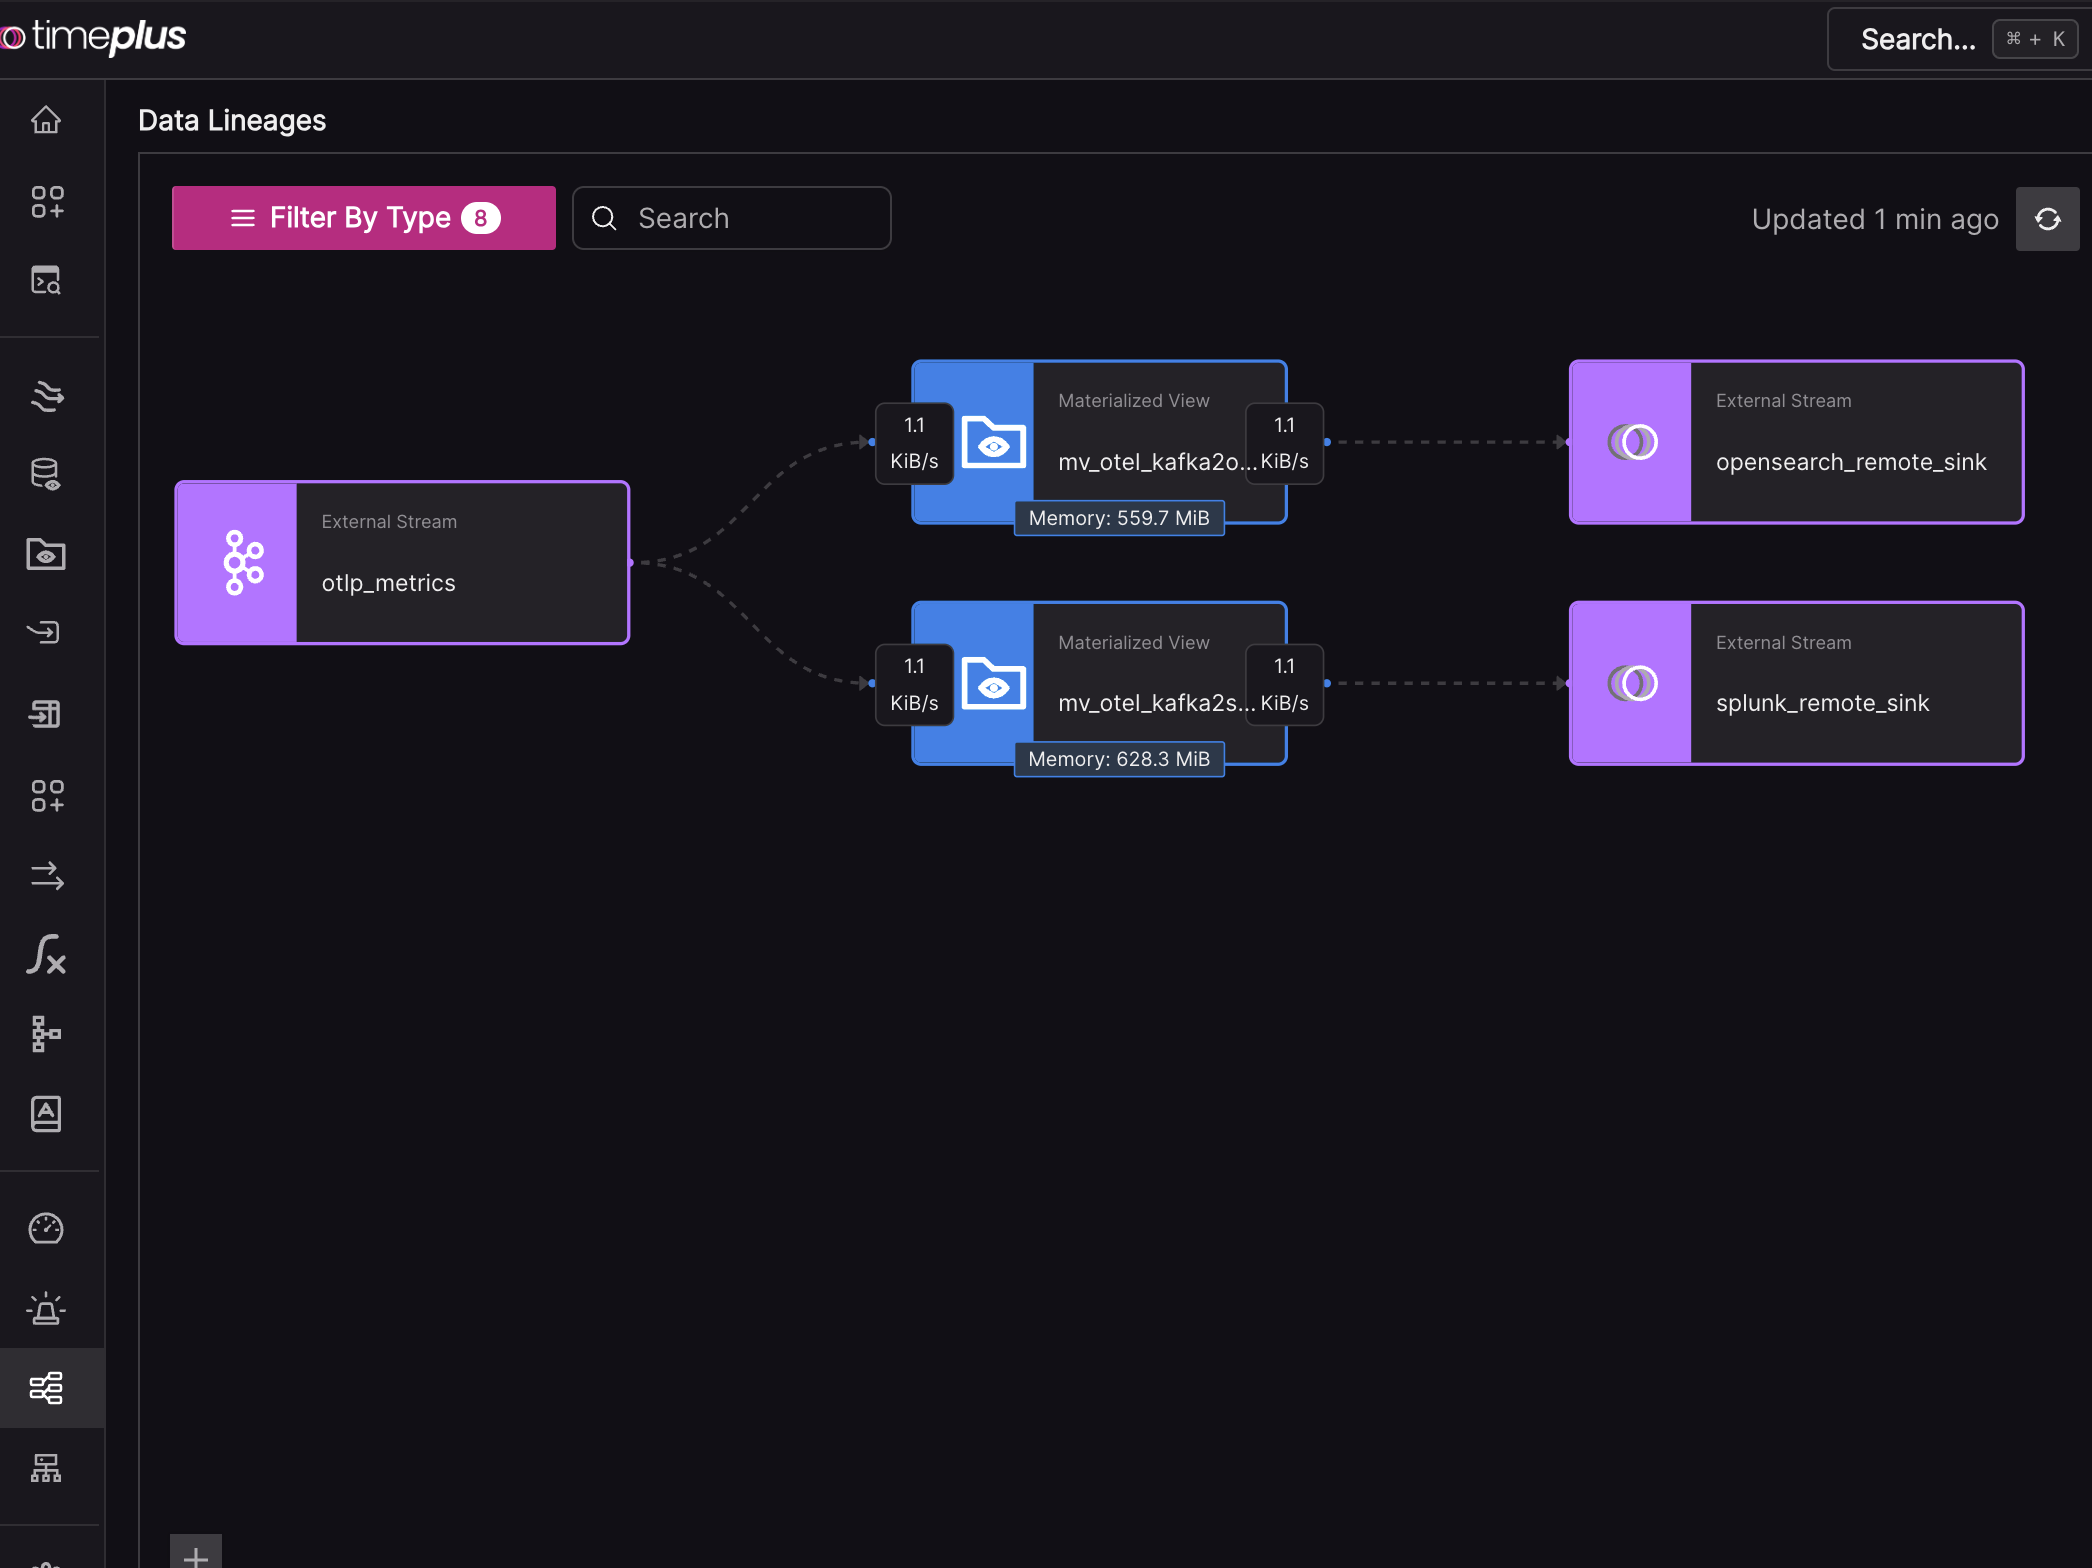
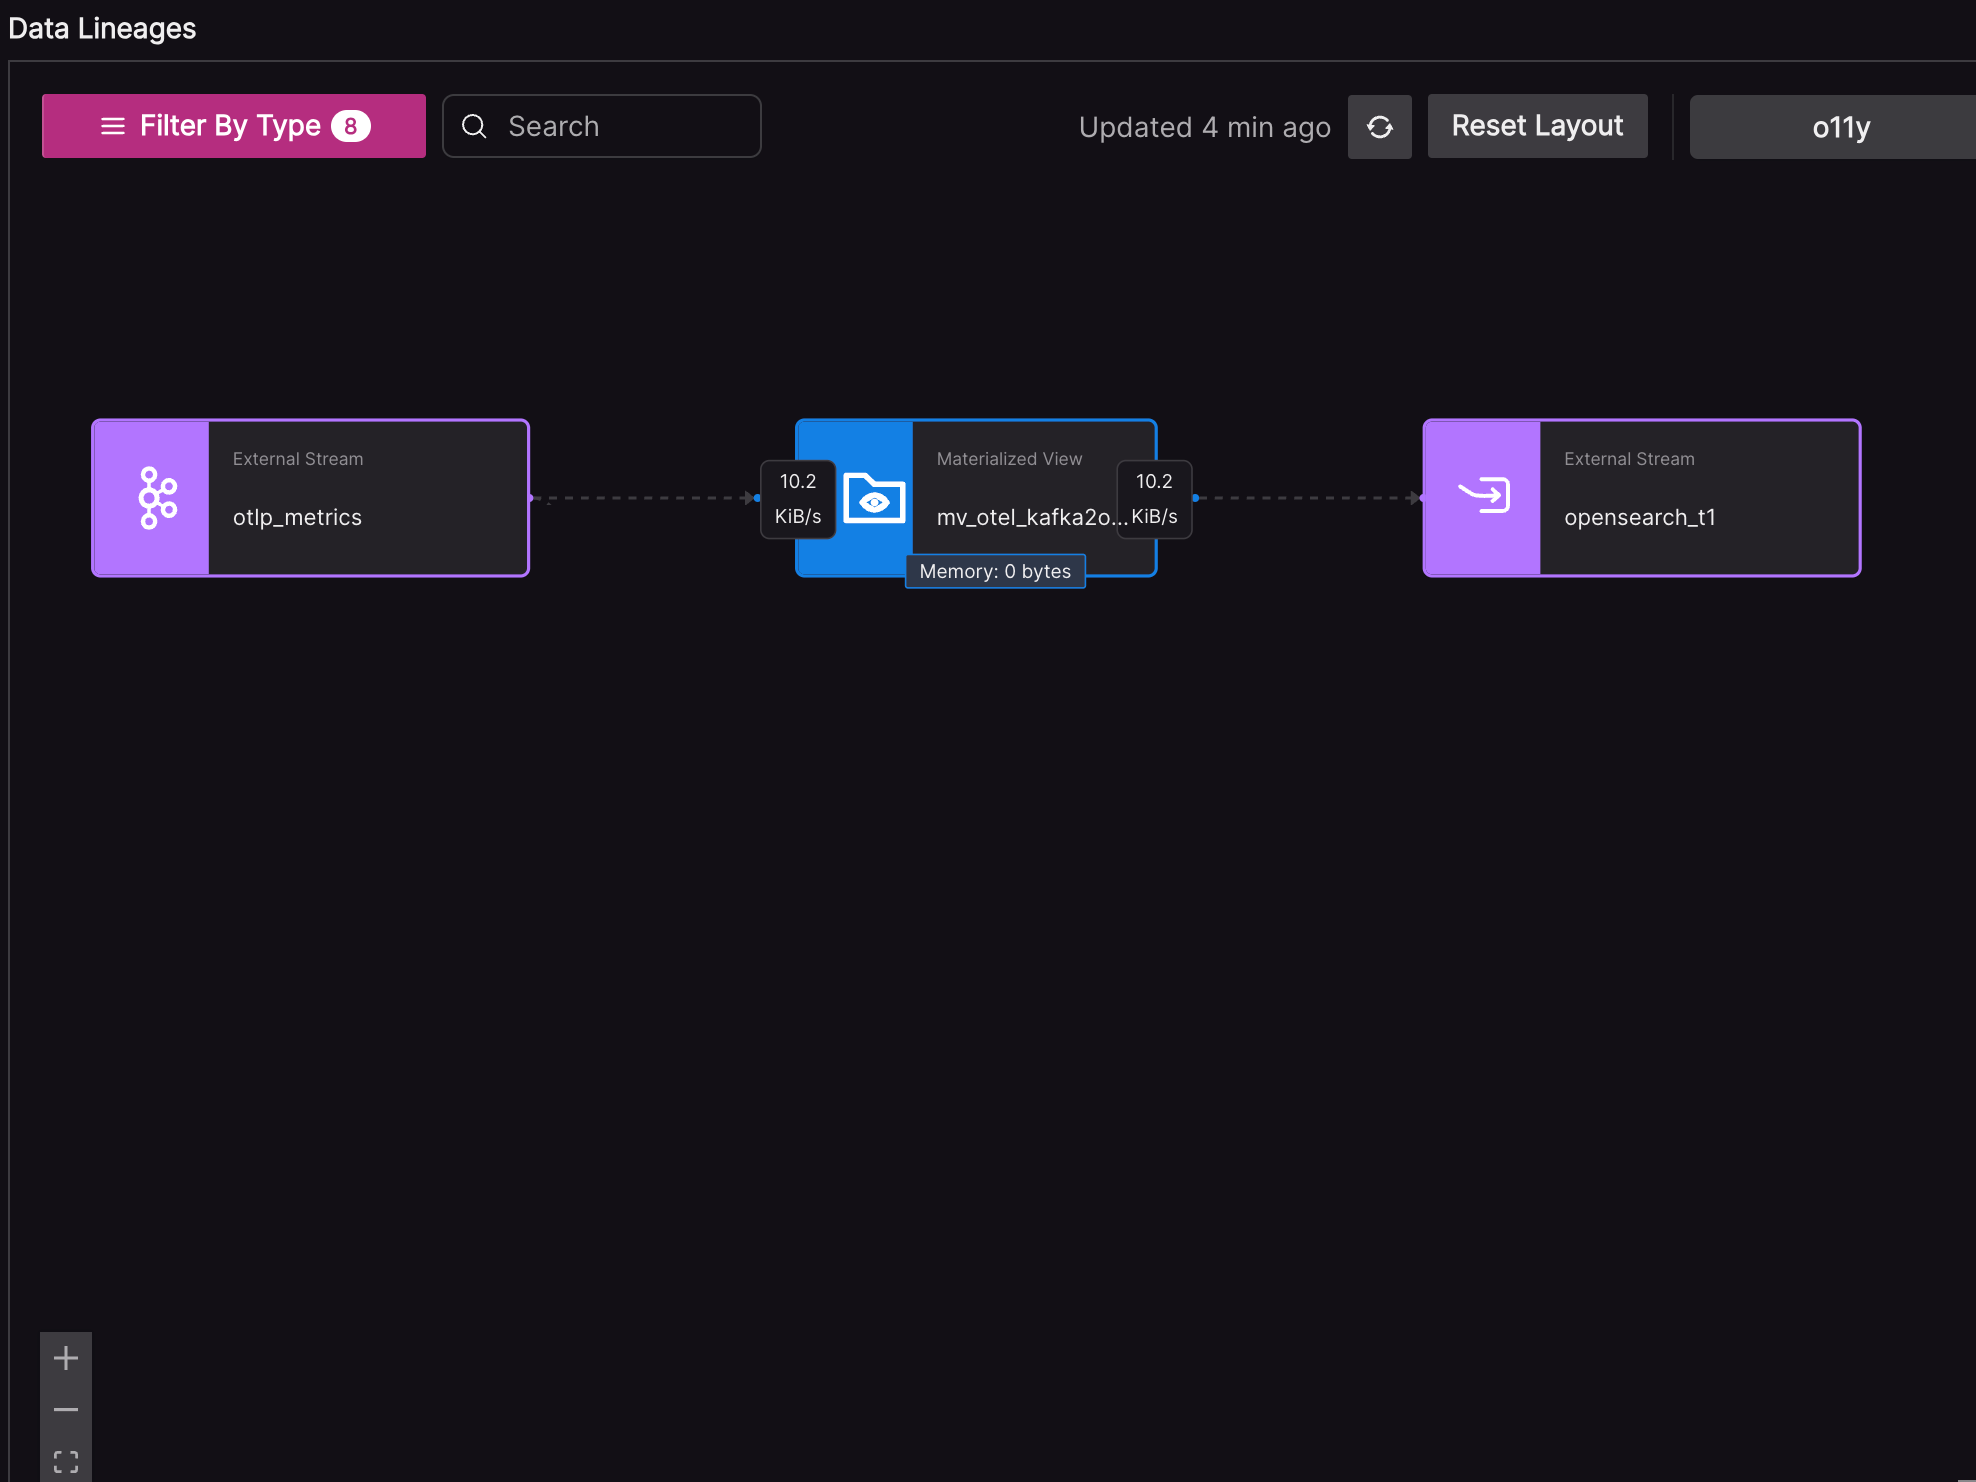
update o11y demo SQL and lineage screenshot

diff --git a/src/data/demos.ts b/src/data/demos.ts
@@ -205,15 +205,15 @@ replace_regex(sm:scope.name,'.*scraper/(.*)','\\1') as scope_name
 from o11y.otlp_metrics where scope_name='loadscraper' and metrics_desc='Average CPU Load over 1 minute.' settings seek_to='-1h'
 );
 
-create external stream sink.splunk_t1 (event string)
+create external stream o11y.splunk_t1 (raw string)
 settings
 type = 'http',
 data_format = 'JSONEachRow',
 http_header_Authorization='Splunk 8367dcdd-..1bb',
 url = 'http://hec.splunk.demo.timeplus.com:8088/services/collector/event';
 
-create materialized view o11y.mv_otel_kafka2splunk into sink.splunk_t1
-as select raw as event from o11y.otlp_metrics;
+create materialized view o11y.mv_otel_kafka2splunk into o11y.splunk_t1
+as select raw from o11y.otlp_metrics;
     `,
     demoLinks: [
       {
